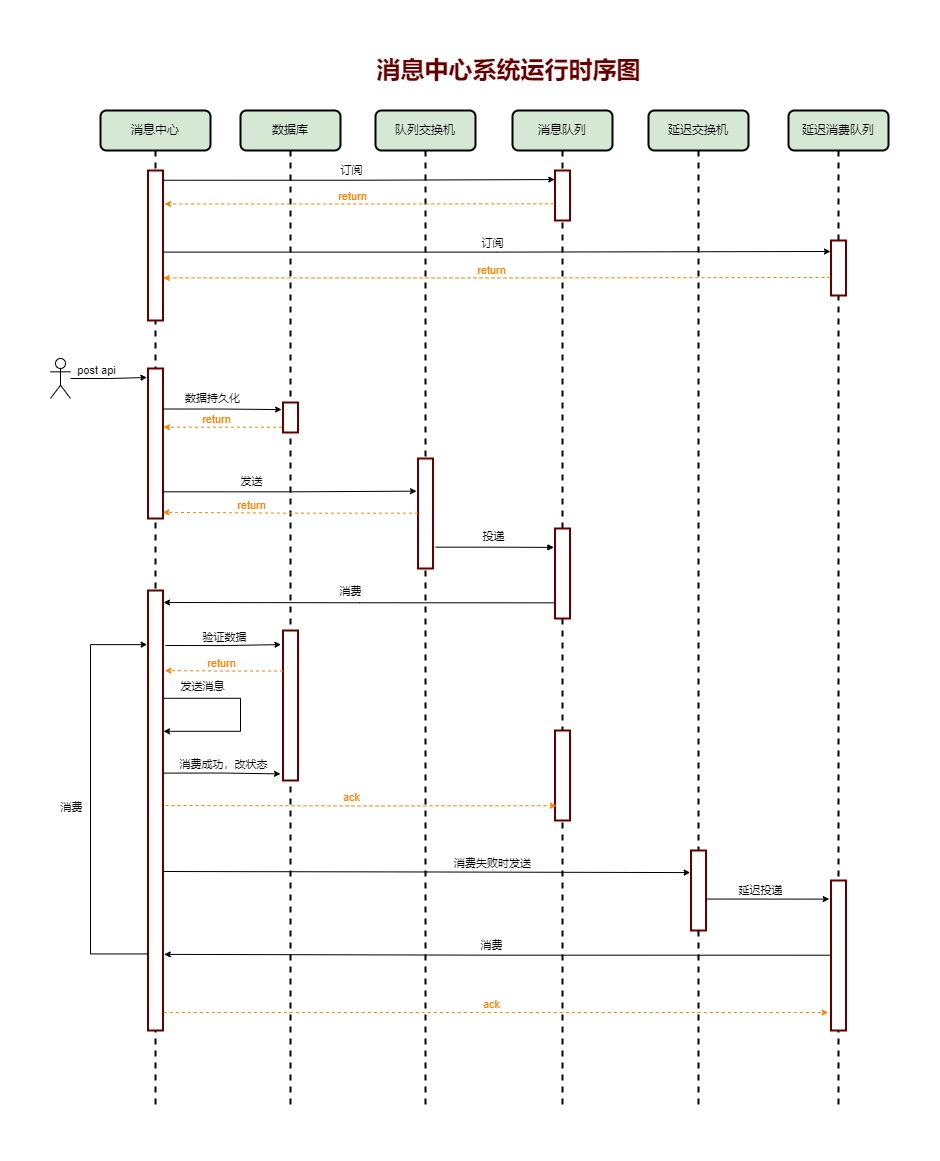
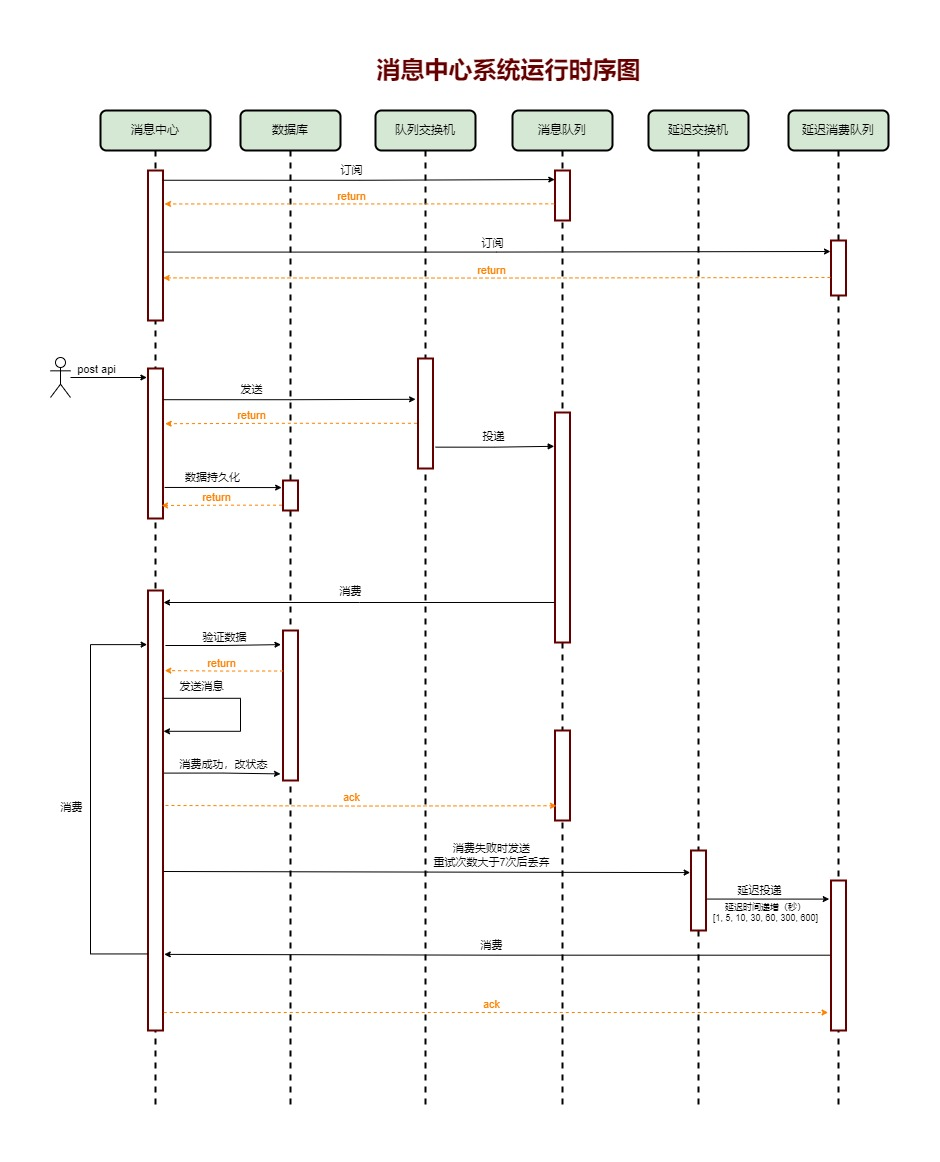
perf:优化时序图

diff --git a/HS.Message/HS.Message.Service/core/imp/MailMessageService.cs b/HS.Message/HS.Message.Service/core/imp/MailMessageService.cs
@@ -16,7 +16,7 @@ namespace HS.Message.Service.core.imp
         private readonly IDistributedCache _cache;
 
         /// <summary>
-        /// 字典相关服务
+        /// 邮件消息相关服务
         /// </summary>
         /// <param name="mailMessageRepository"></param>
         /// <param name="injectedObjects"></param>

diff --git a/HS.Message/HS.Rabbitmq/Core/RabbitmqTopic.cs b/HS.Message/HS.Rabbitmq/Core/RabbitmqTopic.cs
@@ -351,7 +351,7 @@ namespace HS.Rabbitmq.Core
         {
             get
             {
-                //return [1, 5, 10, 20, 60, 300, 600];
+                //return [1, 5, 10, 30, 60, 300, 600];
                 return [5, 5, 5, 5, 5];
             }
         }

diff --git a/README.md b/README.md
@@ -16,7 +16,9 @@
   http://139.155.133.198:15672/ admin/admin123456
   - 安装教程
   https://note.youdao.com/s/Evg9AuTi
-- [源代码](https://github.com/shichaohu/messagecenter/tree/master)
+- 源代码
+  - https://github.com/shichaohu/messagecenter/tree/master
+  - https://gitee.com/TheCustodian/messagecenter
 
 ### 4、系统运行时序图
 <img src="wiki/file/image/消息中心系统运行时序图.jpg">
